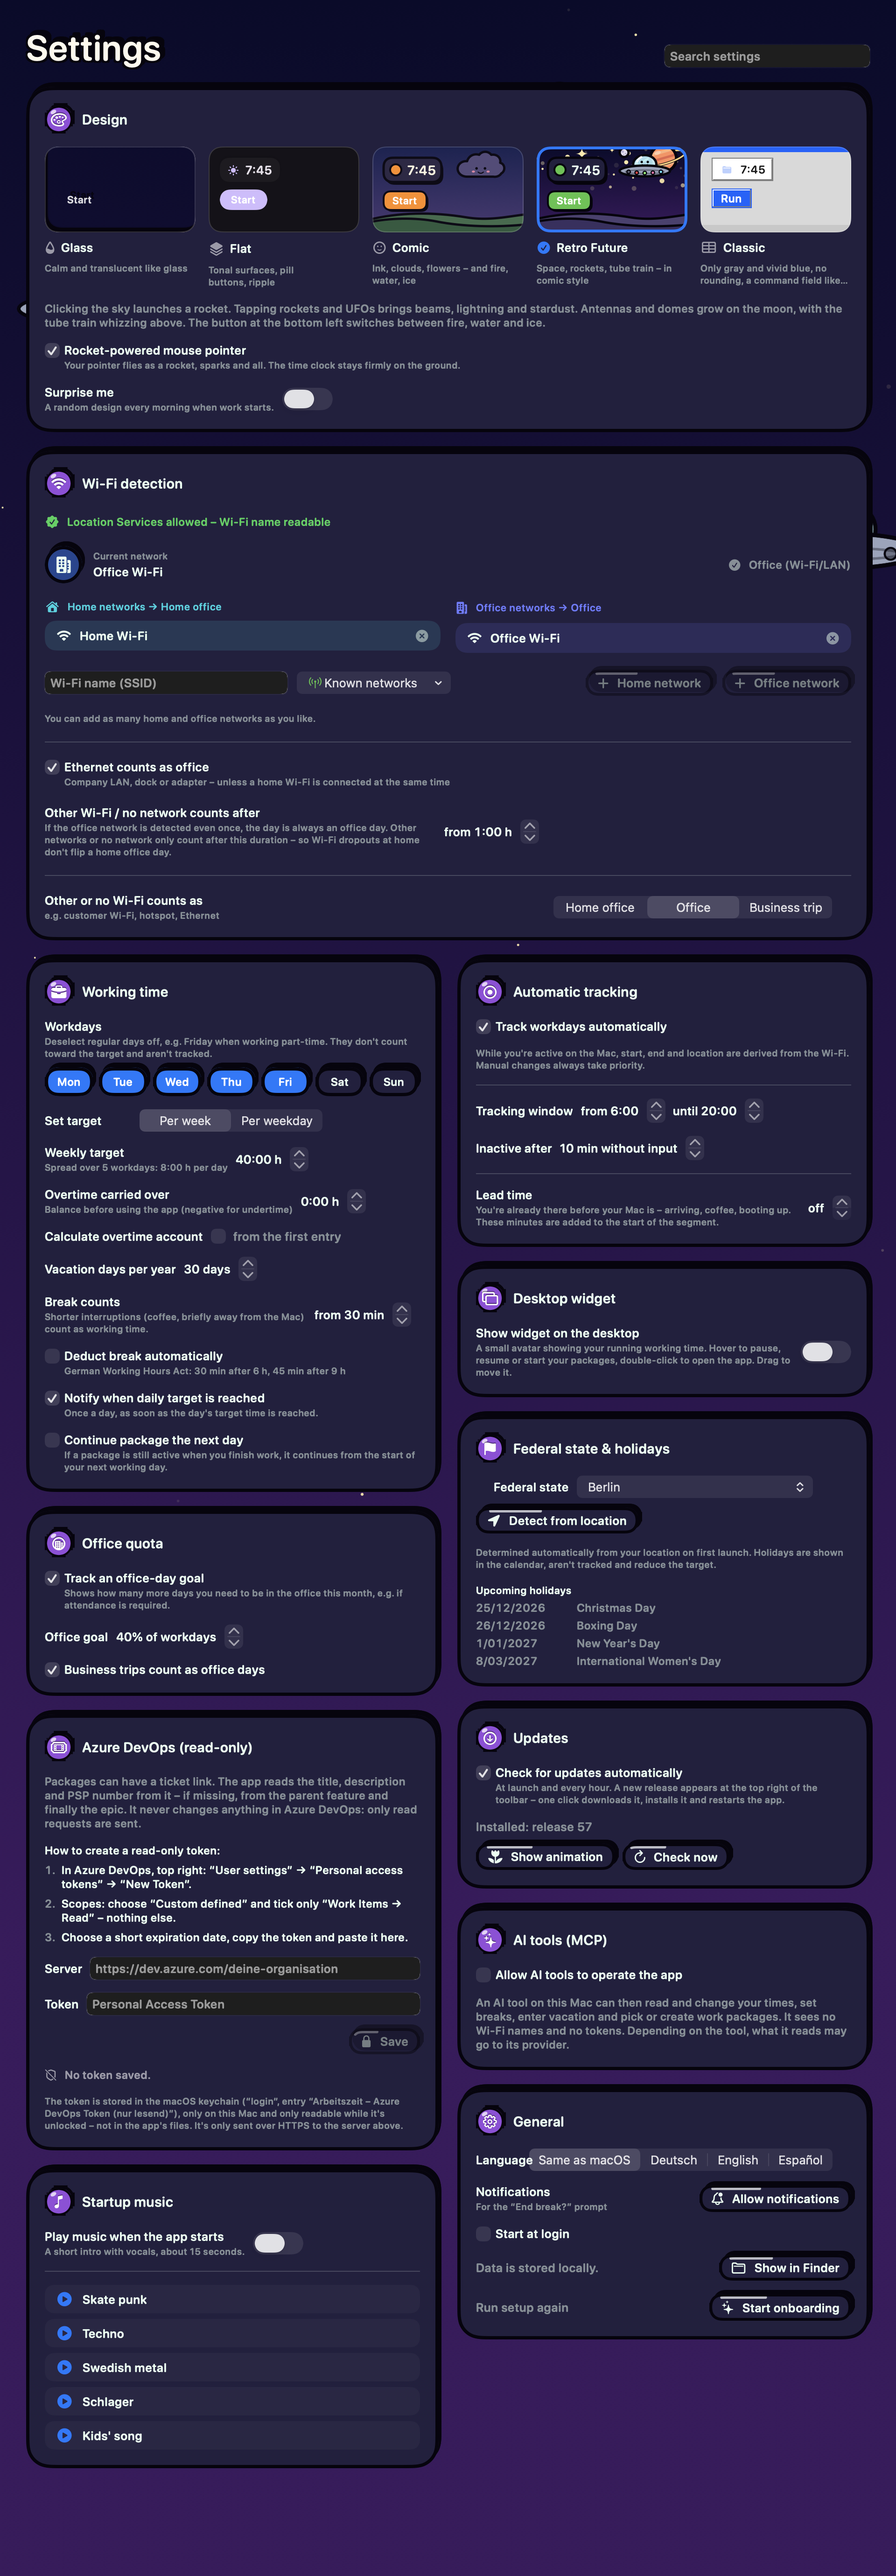
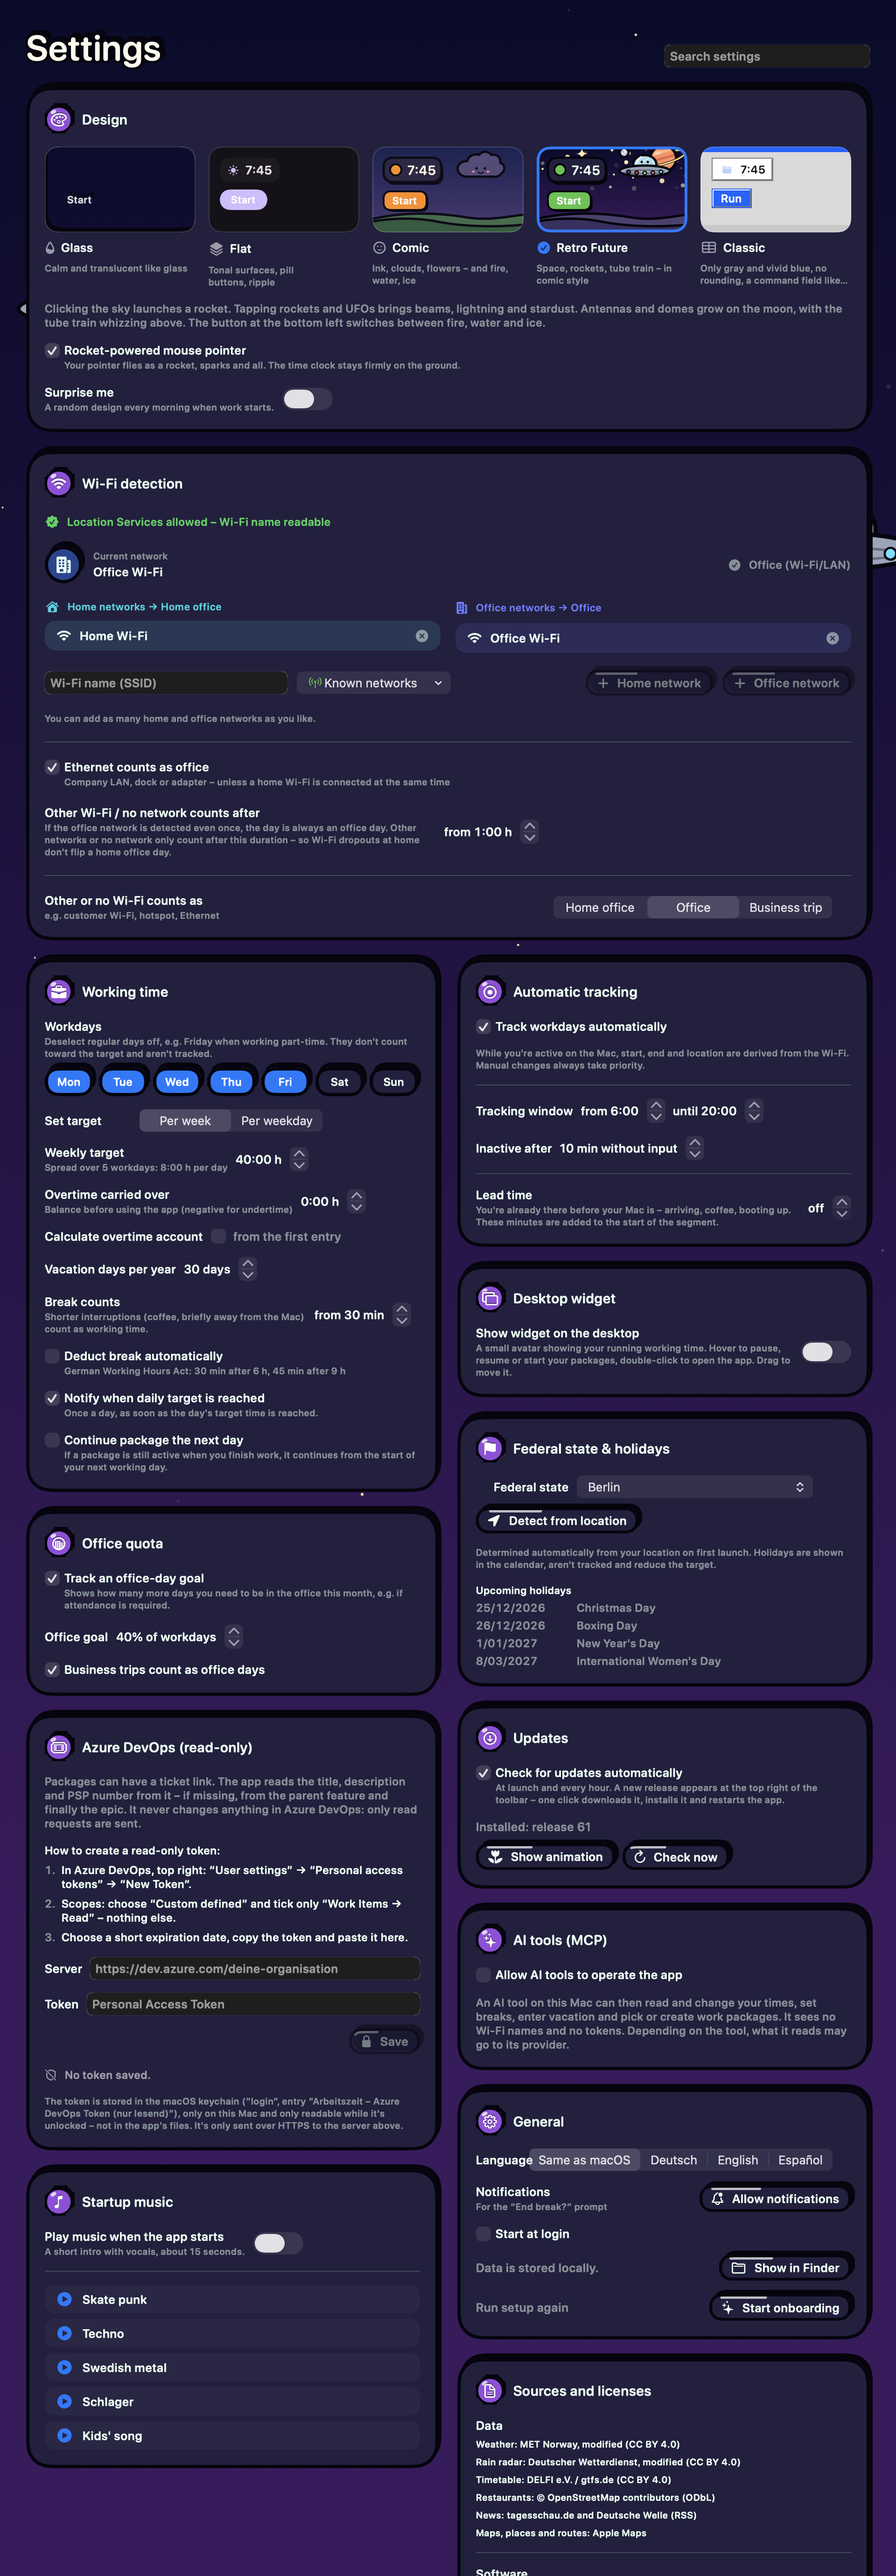
Docs: update description and screenshots

Changed region(s): [[0.5, 0.9036, 1.0, 1.0]]

diff --git a/README.md b/README.md
@@ -23,8 +23,9 @@ Work-time tracker for macOS · Arbeitszeiterfassung für macOS
 - **AI tools (MCP)** – optionally let an AI tool on your Mac, such as Claude or Cursor, operate the app: say "I started at 3 today", "my break was only 30 minutes" or "enter vacation from Monday to Friday", or ask how many office days you still need. It can also switch the desktop widget on or off, dock it to the screen edge or move it there, and pick or create the work package you are working on; with an Azure DevOps ticket the booking number is filled in from the ticket. Off by default.
 - **Five designs, plus your own** – Glass, Flat, Comic, Retro Future and Classic, which uses only gray and blue and has no rounded corners. Can't decide? Switch on "Surprise me" and the app picks a random design every morning when you start work. An AI tool can also create custom designs with your colors, font and rounded corners, and add your own background, logo, card pictures, Dock icon and icons; they then appear in the settings. A custom design can give the desktop widget a look of its own: colors, rounded corners, a picture of your own instead of the figure, a background picture and a bigger or smaller figure at the screen edge.
 - **Searchable settings** – type a word and only the matching settings remain, with the matches highlighted.
+- **Sources and licenses** – a card in the settings lists where weather, rain radar, timetables, places and news come from, with their licenses, and shows the license of the bundled software.
 - **Startup music** – if you like, the app plays a short song with vocals when it starts: skate punk, techno, Swedish metal, Schlager or a kids' song. Pick one song or a different one each time, and preview each in the settings. Off by default.
-- **Weather** – now, the next hours and the next days at your location (data: MET Norway), with a hint when rain starts or stops. The sidebar icon shows the current weather. In Germany a rain radar (data: Deutscher Wetterdienst, CC BY 4.0) shows the last hour and the next two hours, also as a loop. In the Comic design the sky can show the real weather if you like.
+- **Weather** – now, the next hours and the next days at your location (data: MET Norway), with a hint when rain starts or stops. The sidebar icon shows the current weather. In Germany a rain radar (data: Deutscher Wetterdienst, CC BY 4.0) shows the last hour and the next two hours, also as a smooth loop in which you see the rain move between the 5-minute pictures, with the time of each picture and a button that jumps back to your location. In the Comic design the sky can show the real weather if you like.
 - **Rain tips** – if it will rain when you finish work or at lunch, a notification tells you when you stay dry: leave a little earlier or stay a little longer.
 - **News** – headlines from tagesschau, Deutsche Welle or feeds of your own, as a grid with pictures. Your keywords bring matching news to the top; articles open right inside the app. Your keywords stay on your Mac.
 - **On the go** – departures of S-Bahn, regional and long-distance trains at the stations near you, grouped by line and direction (Germany, scheduled times; timetable: DELFI e.V. / gtfs.de, CC BY 4.0). Plus your way home: how long it takes after work by public transport, car, bike or on foot (Apple Maps). The app learns home and work from your location; the addresses stay on your Mac.
@@ -267,8 +268,9 @@ The source code is not hosted here.
 - **KI-Tools (MCP)** – auf Wunsch bedient ein KI-Tool auf deinem Mac, zum Beispiel Claude oder Cursor, die App: Sag „Ich habe heute um 3 angefangen“, „Meine Pause war nur 30 Minuten“ oder „Trag mir von Montag bis Freitag Urlaub ein“, oder frag, wie viele Bürotage dir noch fehlen. Es kann auch das Desktop-Widget ein- und ausschalten, an den Bildschirmrand setzen oder dort verschieben und das Arbeitspaket auswählen oder anlegen, an dem du gerade arbeitest; bei einem Azure-DevOps-Ticket kommt die Buchungsnummer aus dem Ticket. Standardmäßig aus.
 - **Fünf Designs und eigene** – Glas, Flächig, Comic, Retro-Zukunft und Klassik, das nur Grau und Blau kennt und keine Rundungen hat. Kannst du dich nicht entscheiden? Mit „Überrasch mich“ wählt die App jeden Morgen zum Arbeitsbeginn ein zufälliges Design. Ein KI-Tool kann außerdem eigene Designs mit deinen Farben, deiner Schrift und deinen Rundungen anlegen und ihnen eigene Hintergründe, ein Logo, Kartenbilder, ein Dock-Symbol und Icons geben; sie stehen dann in den Einstellungen. Ein eigenes Design kann auch dem Desktop-Widget eine eigene Optik geben: Farben, Rundungen, ein eigenes Bild statt der Figur, ein Hintergrundbild und eine größere oder kleinere Figur am Bildschirmrand.
 - **Durchsuchbare Einstellungen** – ein Wort eintippen, und nur die passenden Einstellungen bleiben stehen, die Treffer sind markiert.
+- **Quellen und Lizenzen** – eine Karte in den Einstellungen nennt, woher Wetter, Regenradar, Fahrplan, Lokale und Nachrichten kommen, mit ihren Lizenzen, und zeigt die Lizenz der mitgelieferten Software.
 - **Startmusik** – auf Wunsch spielt die App beim Start ein kurzes Lied mit Gesang: Skate-Punk, Techno, Schwedenmetal, Schlager oder Kinderlied. Ein festes Lied oder jedes Mal ein anderes, jedes lässt sich in den Einstellungen vorher anhören. Standardmäßig aus.
-- **Wetter** – jetzt, die nächsten Stunden und Tage an deinem Standort (Daten: MET Norway), mit Hinweis, ab wann es regnet oder wieder trocken ist. Das Symbol in der Seitenleiste zeigt das aktuelle Wetter. In Deutschland zeigt ein Regenradar (Daten: Deutscher Wetterdienst, CC BY 4.0) die letzte Stunde und die nächsten zwei Stunden, auf Wunsch als Schleife. Im Design Comic zeigt der Himmel auf Wunsch das echte Wetter.
+- **Wetter** – jetzt, die nächsten Stunden und Tage an deinem Standort (Daten: MET Norway), mit Hinweis, ab wann es regnet oder wieder trocken ist. Das Symbol in der Seitenleiste zeigt das aktuelle Wetter. In Deutschland zeigt ein Regenradar (Daten: Deutscher Wetterdienst, CC BY 4.0) die letzte Stunde und die nächsten zwei Stunden, auf Wunsch als flüssige Schleife, in der der Regen zwischen den 5-Minuten-Bildern sichtbar weiterzieht – mit Uhrzeit des Bildes und einem Knopf zurück zu deinem Standort. Im Design Comic zeigt der Himmel auf Wunsch das echte Wetter.
 - **Regen-Tipps** – regnet es zum Feierabend oder zur Mittagspause, sagt eine Mitteilung, wann du trocken bleibst: etwas früher gehen oder etwas länger bleiben.
 - **Nachrichten** – Meldungen von tagesschau, Deutscher Welle oder eigenen Feeds als Raster mit Bildern. Eigene Stichworte holen passende Meldungen nach oben, Artikel öffnen direkt in der App. Deine Stichworte bleiben auf deinem Mac.
 - **Unterwegs** – Abfahrten von S-Bahn, Regional- und Fernzügen an den Bahnhöfen in deiner Nähe, nach Linie und Richtung gebündelt (Deutschland, Planzeiten; Fahrplan: DELFI e.V. / gtfs.de, CC BY 4.0). Dazu dein Heimweg: wie lange du nach Feierabend nach Hause brauchst, mit Öffis, Auto, Fahrrad oder zu Fuß (Apple Karten). Zuhause und Arbeit erkennt die App selbst am Standort, die Adressen bleiben auf deinem Mac.
